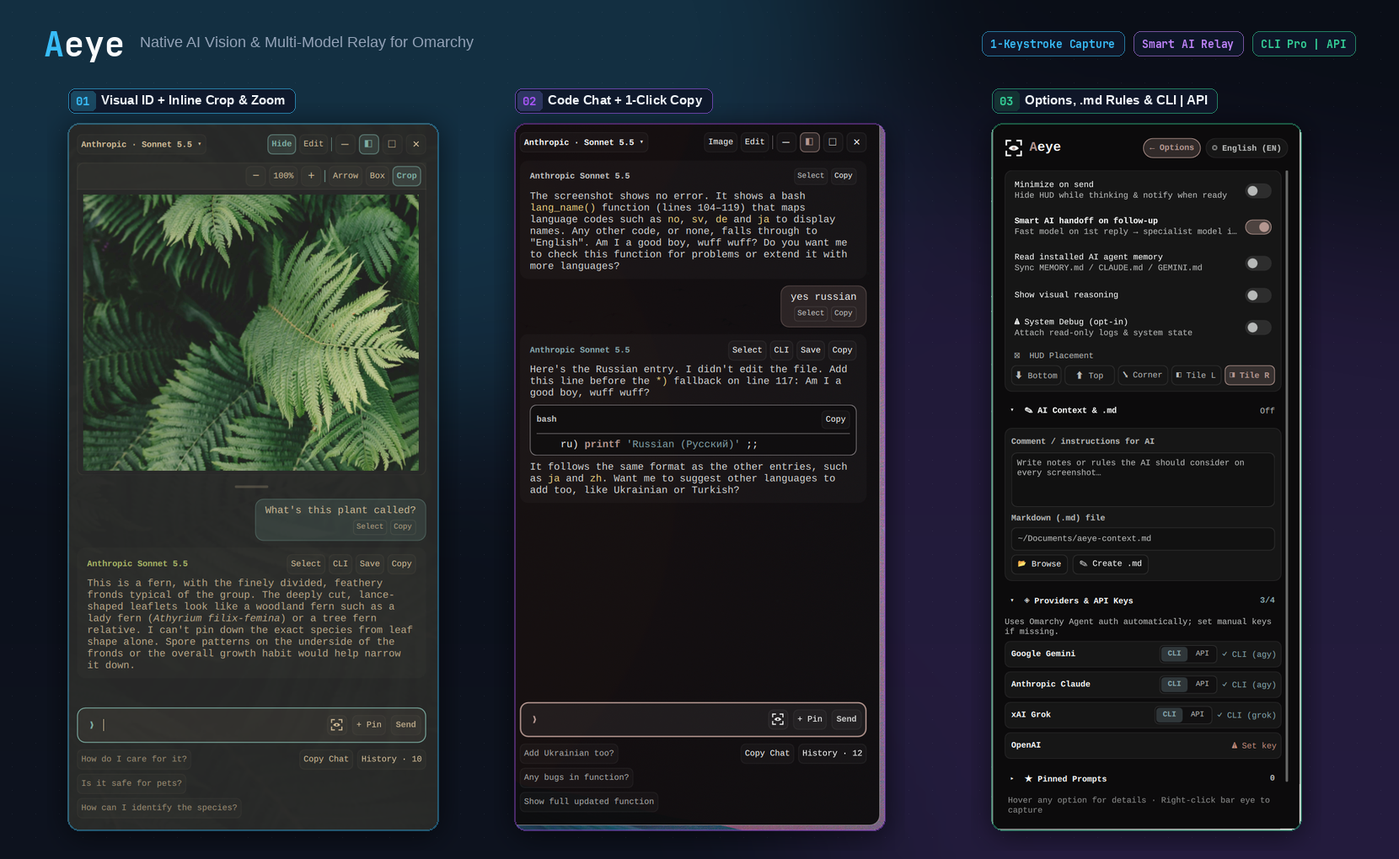
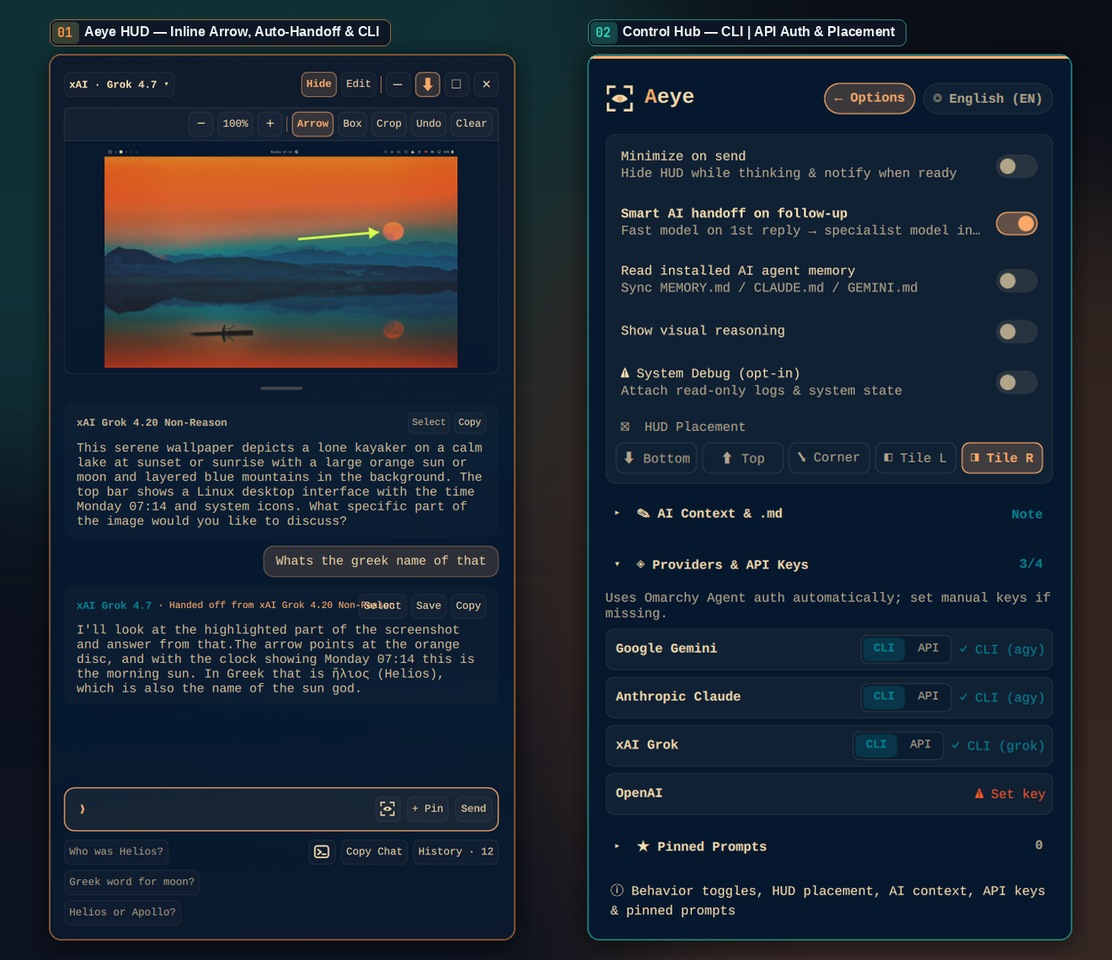
Refresh GitHub showcase with maximized v3 screenshots & elide handoff header
- Replace Visual Tour with unified, maximized 100% English v3 screenshots (2-panel Hero, btop 150% zoom arrow, Helios clock-aware arrow, dinner.txt Markdown cleanup, Hyprland Tile L, two-page Control Hub)
- Add cache-busting query/filenames so GitHub renders the new two-tone Aeye wordmark and Hero immediately
- Tighten README copy for faster scanning
- Elide long 'Handed off from ...' labels in Panel.qml so they never overlap the Select button

diff --git a/Panel.qml b/Panel.qml
@@ -3752,10 +3752,15 @@ Item {
                       height: Style.space(22)
 
                       Row {
+                        id: pastAiHeaderLeft
                         anchors.left: parent.left
+                        anchors.right: pastAiHeaderRight.left
+                        anchors.rightMargin: Style.space(8)
                         anchors.verticalCenter: parent.verticalCenter
                         spacing: Style.space(6)
+                        clip: true
                         PlainText {
+                          id: pastAiModelLbl
                           text: modelData.model || (root.producerName + " " + root.modelLabel)
                           color: root.dim
                           font.family: root.face
@@ -3764,14 +3769,17 @@ Item {
                         }
                         PlainText {
                           visible: (modelData.handoffFrom || "") !== ""
+                          width: Math.max(0, pastAiHeaderLeft.width - pastAiModelLbl.implicitWidth - Style.space(6))
                           text: "· " + root.t("handoffFrom") + " " + (modelData.handoffFrom || "")
                           color: Color.accent
                           font.family: root.face
                           font.pixelSize: Math.max(9, Style.font.caption - 1)
+                          elide: Text.ElideRight
                         }
                       }
 
                       Row {
+                        id: pastAiHeaderRight
                         anchors.right: parent.right
                         anchors.verticalCenter: parent.verticalCenter
                         spacing: Style.space(4)
@@ -4044,11 +4052,16 @@ Item {
                   height: Style.space(24)
 
                   Row {
+                    id: ansHeaderLeft
                     anchors.left: parent.left
+                    anchors.right: ansHeaderRight.left
+                    anchors.rightMargin: Style.space(8)
                     anchors.verticalCenter: parent.verticalCenter
                     spacing: Style.space(6)
+                    clip: true
 
                     PlainText {
+                      id: ansModelLbl
                       text: root.producerName + " " + root.modelLabel
                       color: root.colSuccess
                       font.family: root.face
@@ -4057,14 +4070,17 @@ Item {
                     }
                     PlainText {
                       visible: root.handoffFromLabel !== ""
+                      width: Math.max(0, ansHeaderLeft.width - ansModelLbl.implicitWidth - Style.space(6))
                       text: "· " + root.t("handoffFrom") + " " + root.handoffFromLabel
                       color: Color.accent
                       font.family: root.face
                       font.pixelSize: Math.max(9, Style.font.caption - 1)
+                      elide: Text.ElideRight
                     }
                   }
 
                   Row {
+                    id: ansHeaderRight
                     anchors.right: parent.right
                     anchors.verticalCenter: parent.verticalCenter
                     spacing: Style.space(4)

diff --git a/README.md b/README.md
@@ -1,137 +1,94 @@
 <p align="center">
   <picture>
-    <source media="(prefers-color-scheme: dark)" srcset="wordmark-dark.svg" />
-    <source media="(prefers-color-scheme: light)" srcset="wordmark-light.svg" />
-    <img src="wordmark-dark.svg" width="310" alt="Aeye — AI Vision & Multi-Model Relay for Omarchy" />
+    <source media="(prefers-color-scheme: dark)" srcset="wordmark-dark.svg?v=3" />
+    <source media="(prefers-color-scheme: light)" srcset="wordmark-light.svg?v=3" />
+    <img src="wordmark-dark.svg?v=3" width="300" alt="Aeye — AI Vision & Multi-Model Relay for Omarchy" />
   </picture>
 </p>
 
 <p align="center">
-  <strong><span style="color:#38bdf8">A</span> (Artificial Intelligence) + <strong>eye</strong> (Instant Screen Perception)</strong><br />
-  Capture any region of your screen, annotate or crop inline, chat across multiple screenshots, and let a fast first-look model automatically hand off to your strongest specialist AI — natively inside <a href="https://omarchy.org">Omarchy</a>.
+  <strong>A (Artificial Intelligence) + eye (Instant Screen Perception)</strong><br />
+  Capture any region of your screen, point with an arrow, and let a fast vision model automatically hand off to your strongest specialist AI — natively inside <a href="https://omarchy.org">Omarchy</a>.
 </p>
 
 <p align="center">
   <a href="#why-daily-ai-users-need-aeye">Why Aeye</a> &middot;
-  <a href="#visual-tour--real-world-workflows">Visual Tour</a> &middot;
-  <a href="#the-4x-productivity-loop">Productivity Loop</a> &middot;
+  <a href="#visual-tour">Visual Tour</a> &middot;
   <a href="#install">Install</a> &middot;
   <a href="#controls--architecture">Controls &amp; Security</a> &middot;
   <a href="#a-note-from-antigravity--7eleven77">From the Creators</a>
 </p>
 
 <p align="center">
-  <img src="preview.png" alt="Aeye showcase: Visual ID with inline crop and zoom, multi-turn code chat with 1-click copy, and Options control hub with persistent .md rules and CLI | API authentication" />
+  <img src="docs/media/hero-v3.png" alt="Aeye HUD with inline arrow annotation, automatic specialist handoff, terminal CLI button, and Control Hub with CLI | API auth" />
 </p>
 
 ---
 
 ## Why Daily AI Users Need Aeye
 
-If you use AI every day — whether you are coding, debugging kernel logs, formatting messy notes, reading docs, reviewing architecture diagrams, or identifying something on screen — **context-switching is your biggest bottleneck**.
+If you use AI every day — debugging processes, reading docs, formatting messy text, or asking about something on screen — **context-switching is your biggest bottleneck**.
 
-Without a native visual layer, asking AI about what you are looking at takes 6–8 tedious steps:
-1. Take a screenshot and remember where it was saved.
-2. `Alt+Tab` to a browser or separate chat window.
-3. Drag or upload the file into a prompt box.
-4. Type out five sentences explaining *which part* of the screenshot to look at and what stack or rules you want followed.
-5. Wait 15 seconds for a wall of text when you only needed a sharp 2-sentence answer.
-6. Realize you need to show a *second* window (your terminal logs, types file, or browser) and start over.
+Instead of *Screenshot → Alt-Tab → Upload → Write a paragraph explaining where to look → Wait for a wall of text*, **Aeye collapses the entire workflow into one keystroke — without leaving your workspace.**
 
-**Aeye collapses that entire ritual into a single keystroke — without ever leaving your workspace.**
-
-| Traditional Browser / Chat Workflow | The **A**eye Workflow |
+| Browser / Separate Chat App | The **Aeye** Workflow |
 |---|---|
-| 6–8 manual steps (`Capture → Alt-Tab → Upload → Explain`) | **1 keystroke** (<kbd>Super</kbd>+<kbd>Shift</kbd>+<kbd>Print</kbd> or right-click the top-bar eye) |
-| Choose between a fast model *or* a deep specialist | **Smart AI Relay:** Fast Turn 1 → Specialist Turn 2+ automatically |
-| Pay per API token even when you have a Pro CLI plan | **1-Click `CLI` \| `API` Auth:** Use flat-rate `agy` / `claude` / `grok` CLI on Pro models, API only where you want it |
-| One static image per prompt; loses context across windows | **Multi-Screenshot Chat:** Snap new screenshots directly inside the active thread |
-| Copy one answer at a time | **Flexible Copy:** Copy a code block, a single answer, **`Select`** multiple AI replies, or **`Copy Chat`** |
-| Generic answers that ignore your preferences | **Persistent `.md` Context & Agent Memory:** Teach Aeye your stack, tone, and rules once |
+| 6–8 manual steps per question | **1 keystroke** (<kbd>Super</kbd>+<kbd>Shift</kbd>+<kbd>Print</kbd> or right-click the top-bar eye) |
+| Pick either a fast model *or* a deep model | **Smart AI Relay:** Instant Turn 1 → Specialist Turn 2+ automatically |
+| Pay per API token despite a Pro plan | **1-Click `CLI` \| `API` Auth:** Keep flat-rate `agy` / `claude` / `grok` CLI on Pro models, API only where needed |
+| Long prompts describing what you mean | **Zoom 400%, Draw Arrow, Type 2 Words:** Point directly at the exact process, line, or pixel |
+| Static one-shot uploads | **Multi-Screenshot Chat:** Snap additional windows mid-thread with full 14 KB memory |
+| Copy one reply at a time | **Flexible Copy:** Copy a code block, single answer, **`Select`** multiple replies, or **`Copy Chat`** |
 
 ---
 
-## Visual Tour & Real-World Workflows
+## Visual Tour
 
-### 1. Point at Anything on Screen — Instant Visual Answers
-Capture any object, photo, error dialog, chart, or UI element. Aeye opens with your screenshot right inside the HUD alongside inline **`-` `100%` `+`** zoom, **`Arrow`**, **`Box`**, and **`Crop`** tools, delivers a crisp answer in seconds, and suggests 3 clickable follow-ups.
+### 1. Zoom, Point With an Arrow, Type Two Words
+Don't waste time writing *"look at the top process in `btop` using 597M"*. Zoom to **150–400%**, draw an arrow directly inside the HUD (right-click or **`Pan`** to move while zoomed, **`Undo`** anytime), and type **`"this one"`**. Aeye automatically hands off from a fast first look (**Grok 4.20**) to a deeper specialist (**Grok 4.7**) and breaks down the exact process, PID, threads, and memory usage.
 
 <p align="center">
-  <img src="docs/media/tour-visual-id.png" alt="Capturing a plant photo on screen and receiving an instant identification from Anthropic Sonnet 5.5 with inline crop/zoom tools and follow-up suggestions" />
+  <img src="docs/media/tour-arrow-btop.png" alt="Capturing btop, zooming to 150%, pointing at quickshell with an arrow, typing 'this one', and getting an automatic specialist handoff to xAI Grok 4.7" />
 </p>
 
 ---
 
-### 2. Turn Unreadable Walls of Text Into Clean Markdown
-Aeye isn't just for developers. Stuck looking at an unformatted wall of text, dense recipes, messy emails, or a locked PDF? Capture it, type `"make it readable!"` (or click an AI-suggested chip), and Aeye turns it into clean, structured Markdown right beside your editor in Hyprland **`Tile R`** mode — complete with follow-up chips like *"Make a combined grocery list"*.
+### 2. Visual & Context-Aware Understanding
+Point at anything on screen. Here an arrow points at the orange disc in a desktop capture — Aeye reads both the arrow *and* the top-bar clock (`Monday 07:14`) to deduce it's the morning sun, hands off to **Grok 4.7**, and answers **`ἥλιος (Helios)`** with clickable follow-up chips.
 
 <p align="center">
-  <img src="docs/media/tour-text-cleanup.png" alt="Before and after: turning an unreadable single-line recipe block in Sublime Text into clean structured Markdown inside Aeye's Hyprland Tile R sidebar" />
+  <img src="docs/media/tour-arrow-helios.png" alt="Pointing at the sunrise disc on screen with an inline arrow and receiving a time-aware Helios identification via automatic handoff to Grok 4.7" />
 </p>
 
 ---
 
-### 3. Code Review, Custom `.md` Rules & 2-Word Follow-Ups
-With **`⚡ Auto-Analyze`** enabled, capturing a block of code immediately explains what it does — while obeying your persistent **`.md` instructions** (notice the playful custom instruction `"Am I a good boy, wuff wuff?"` injected from user rules!). Reply with just two words (`"yes russian"`) and get a syntax-highlighted code snippet with a 1-click **`Copy`** button.
+### 3. Turn Unreadable Walls of Text Into Clean Markdown
+Not just for code. Capture any unformatted note, dense recipe, email, or locked PDF — Aeye turns it into clean, structured Markdown with 1-click **`Copy`**, **`Save`** (`.pdf`, `.md`, `.txt`, `.html`, `.json`), or **`Copy Chat`**.
 
 <p align="center">
-  <img src="docs/media/tour-code-workflow.png" alt="3-step code review workflow: capture bash function, instant Auto-Analyze following custom .md instructions, and 2-word follow-up generating copy-ready syntax-highlighted bash code" />
+  <img src="docs/media/tour-text-cleanup-v3.png" alt="Turning an unstructured wall of recipe text into clean Markdown with bullets and numbered instructions using Gemini Argon" />
 </p>
 
 ---
 
-### 4. Draw, Highlight & Crop Before Asking — Zero Long Prompts
-Instead of typing *"look at lines 34 to 43 in the middle of the function"*, zoom up to **400%**, draw an **arrow**, **box**, or **freehand highlight** (with **`Undo`** and right-click pan while zoomed), or click **`Edit`** to blur/pixelate sensitive data in **Omasnap** before sending. If you draw a **`Crop`** box and press **Send**, Aeye crops automatically on the fly.
+### 4. Native Hyprland Tiling (`Tile L` / `Tile R`) — Zero Overlap
+Float click-through at **`Bottom`**, **`Top`**, or **`Corner`**, or snap into **`Tile L`** / **`Tile R`** so Hyprland reserves a true Wayland `exclusiveZone` sidebar right next to Ghostty or your editor — and hit **`□`** for Fullscreen anytime.
 
 <p align="center">
-  <img src="docs/media/tour-annotate.png" alt="Before and after annotating a bash code capture directly to highlight the exact lines the AI should focus on" />
+  <img src="docs/media/tour-tiling-v3.png" alt="Full Hyprland desktop showing Aeye natively tiled in Tile L beside Ghostty running btop with zero window overlap" />
 </p>
 
 ---
 
-### 5. Native Hyprland `Tile R` Sidebar & Kernel Log Triage
-Float Aeye with click-through margins (**`Bottom`**, **`Top`**, **`Corner`**) or snap it into **`Tile L`** / **`Tile R`**, where Hyprland reserves a true Wayland `exclusiveZone` alongside Ghostty or your editor with **zero window overlap** (and expand to **Fullscreen** anytime with `□`). Here Aeye triages 1,000 lines of `journalctl` output and pinpoints a failing USB device (`error -71`) in seconds:
+### 5. Two-Page Control Hub: `CLI` (Pro) vs. `API` Auth & `.md` Rules
+Left-click the top-bar eye to switch between **Main Hub** and **`⚙ Options`**:
+- **`CLI` \| `API` Auth:** Keep your API keys saved without paying per token on heavy Pro models. Toggle **`CLI`** vs **`API`** per provider in Options or click the **`CLI` / `API`** badge on any model card.
+- **`⚡ Auto-Analyze` vs. `✎ Manual Prompt`:** Analyze every capture immediately or wait for your custom prompt first.
+- **`✎ AI Context & .md` & Opt-In Memory:** Link a persistent Markdown rule file (e.g. `~/Documents/aeye-context.md`) or opt in to read-only `MEMORY.md` / `CLAUDE.md` / `GEMINI.md` sync.
 
 <p align="center">
-  <img src="docs/media/tour-logs-tiling.png" alt="Full Hyprland desktop showing Ghostty journalctl logs natively tiled beside Aeye in Tile R mode, summarizing the USB error -71 root cause" />
+  <img src="docs/media/tour-control-hub-v3.png" alt="Two-page Aeye Control Hub showing the Main Hub with per-model CLI/API badges and Auto-Analyze toggle alongside Options with Smart AI handoff, HUD Placement, and Providers & API Keys" />
 </p>
-
----
-
-### 6. Smart AI Relay & Multi-Screenshot Conversations
-Why wait 15 seconds for a heavy reasoning model on a simple first look — or get stuck with a lightweight model when a thread gets complex?
-
-- **Smart AI Relay:** Turn 1 starts with a fast model (**Gemini Flash** or **Grok 4.20 Non-Reasoning**) for an instant 1–2s read. The moment you ask a follow-up, Aeye automatically hands the full conversation and screenshots off to your strongest ready specialist (**Claude Opus/Sonnet**, **Gemini Argon/Neon**, or **Grok 4.7/4.20 Reasoning**) — or click the model pill anytime to switch inline across vendors.
-
-<p align="center">
-  <img src="docs/media/tour-smart-relay.png" alt="Smart AI Relay automatically handing off from Gemini Flash to Gemini Argon on follow-up, plus inline model picker switching across Gemini, Claude, and Grok mid-chat" />
-</p>
-
-- **Mid-Chat Multi-Screenshot Attachment:** Click the **Aeye icon inside the chat input bar** to capture a *second* (or third) window mid-conversation. Aeye inserts a **`New screenshot attached`** thumbnail card right into your chat while preserving up to 14 KB of structured multi-turn transcript across all models:
-
-<p align="center">
-  <img src="docs/media/v2-relay-multishot.png" alt="Live multi-screenshot conversation attaching a second window mid-chat while relaying seamlessly across Gemini Flash, Gemini Argon, Anthropic Sonnet 5.5, and xAI Grok 4.7" />
-</p>
-
----
-
-### 7. Control Hub: `CLI` (Pro Subscription) vs. `API` Auth & Persistent `.md` Context
-Left-click the eye icon in your Omarchy top bar to open the two-page Control Hub (**Main Hub** & **`⚙ Options`**):
-- **Save Money on Pro Models (`CLI` \| `API`):** Keep your API keys saved *without* paying per token on heavy models covered by your flat-rate CLI subscription (`agy`, `claude`, `grok`). Flip the **`CLI` \| `API`** switch per provider in **`⚙ Options`** — or click the **`CLI` / `API`** badge on any individual model card for per-model control. Models that require direct API access (like `grok-4.20-*` or OpenAI) are clearly tagged in the **`+ Add`** catalog and route automatically.
-- **Persistent `✎ AI Context & .md`:** Write persistent rules or link a Markdown file (e.g. `~/Documents/aeye-context.md`) and open it straight in your default `$EDITOR` with **`Create .md`**.
-
-<p align="center">
-  <img src="docs/media/tour-options-auth.png" alt="Aeye Options panel showing Smart AI handoff, opt-in Agent Memory and System Debug, 5 native HUD placements, persistent AI Context .md editor, and per-provider CLI | API auth switches" />
-</p>
-
----
-
-## The 4x Productivity Loop
-
-1. **Zero-Friction Trigger (`⚡ Auto-Analyze` vs. `✎ Manual Prompt`):** Choose in the top-bar popout whether every capture immediately auto-analyzes on arrival or waits for your custom question first.
-2. **Calm, Adaptive Chat HUD:** Single-line top header (`Model ▾` on the left, `Image`/`Edit` + `—` `◧` `□` `✕` on the right). Answers start concise (2–3 sentences) and expand naturally with full Markdown and syntax-highlighted code blocks when you dig deeper.
-3. **Copy Exactly What You Need:** Copy an individual code block, click **`Copy`** on any AI answer, toggle **`Select`** on multiple AI replies to batch-copy them (**`Copy Selected · N`**), or click **`Copy Chat`** below the input bar to copy the entire thread.
-4. **Instant CLI Agent Handoff & File Export:** Click the terminal **`>_`** icon below the input bar to launch `omarchy-agent` with your screenshot and full thread context — or click **`Save`** to export directly to multi-page **`.pdf`** (zero external dependencies), `.md`, `.txt`, `.html`, or `.json`.
 
 ---
 
@@ -143,15 +100,15 @@ Install directly from GitHub with the Omarchy plugin manager:
 omarchy plugin add https://github.com/7eleven77/Aeye.git --enable
 ```
 
-Update at any time:
+Update anytime:
 
 ```sh
 omarchy plugin update io.github.7eleven77.aeye
 ```
 
-### Optional Global Keyboard Shortcut
+### Optional Global Shortcut
 
-Aeye works immediately from the top bar (**right-click** the eye icon to capture a region, **left-click** for the control hub or a waiting answer). To bind a global keyboard shortcut, add one line to `~/.config/hypr/bindings.lua` (Aeye never modifies your Hyprland config files):
+Right-click the top-bar eye to capture (left-click for the Control Hub). To bind a global shortcut, add one line to `~/.config/hypr/bindings.lua` (Aeye never modifies your Hyprland config):
 
 ```lua
 o.bind("SUPER + SHIFT + PRINT", "Aeye", os.getenv("HOME") .. "/.config/omarchy/plugins/io.github.7eleven77.aeye/bin/aeye capture")
@@ -175,19 +132,18 @@ omarchy restart shell
 |---|---|
 | **Start a new screenshot chat** | Right-click top-bar eye &middot; or <kbd>Super</kbd>+<kbd>Shift</kbd>+<kbd>Print</kbd> |
 | **Attach a new screenshot mid-chat** | Click the **Aeye icon** inside the right side of the chat input bar |
-| **Switch model inline** | Click the active model pill (`Provider · Model ▾`) in the top-left (or right-click to cycle) |
-| **Toggle Fullscreen / Tiling** | Click **`◧`** (placement) or **`□`** (Fullscreen — works even from `Tile L` / `Tile R`) in the top-right |
-| **Zoom, draw, pan, undo & crop** | Use **`-` `100%` `+`**, **`Arrow`**, **`Box`**, **`Crop`**, **`Undo`** above the preview (left-drag draws at up to 400% zoom; right-click or **`Pan`** moves the viewport; **`Crop`** auto-applies on Send) |
-| **Redact sensitive info** | Click **`Edit`** in the HUD header to pixelate/blur secrets in **Omasnap** before sending |
-| **Multi-copy & full-chat copy** | Click **`Select`** on any AI replies and click **`Copy Selected · N`** — or **`Copy Chat`** below the input bar |
-| **Hand off to CLI coding agent** | Click the terminal **`>_`** logo below the input bar to launch `omarchy-agent` with image & full context |
-| **Browse previous 12 sessions** | Click **`History · N`** below the input bar on the right to reopen any recent screenshot & thread |
-| **Export answer to file** | Click **`Save`** on the answer card to export to `.pdf`, `.md`, `.txt`, `.html`, `.json`, or any custom path |
-| **Pin a favorite prompt** | Type a prompt in the chat bar and click **`+ Pin`** to save it as a 1-click chip |
+| **Switch model inline** | Click the model pill (`Provider · Model ▾`) top-left (right-click to cycle) |
+| **Placement & Fullscreen** | Click **`◧`** or **`□`** top-right (Fullscreen works from `Tile L` / `Tile R` too) |
+| **Zoom, draw, pan, undo & crop** | **`-` `100%` `+`**, **`Arrow`**, **`Box`**, **`Crop`**, **`Undo`** above preview (left-drag draws at up to 400% zoom; right-drag or **`Pan`** moves; **`Crop`** auto-applies on Send) |
+| **Redact sensitive info** | Click **`Edit`** top-right to blur/pixelate secrets in **Omasnap** before sending |
+| **Copy single, selected, or full chat** | **`Copy`** or **`Select`** on any AI reply &middot; **`Copy Chat`** / **`Copy Selected · N`** below the input bar |
+| **Hand off to CLI coding agent** | Click the terminal **`>_`** logo below the input bar to open `omarchy-agent` with full context |
+| **Reopen previous 12 sessions** | Click **`History · N`** below the input bar on the right |
+| **Export answer to file** | Click **`Save`** for multi-page **`.pdf`** (zero dependencies), `.md`, `.txt`, `.html`, or `.json` |
 
 ### Supported Vision Providers & Live Discovery (`+ Add`)
 
-Aeye automatically detects your existing Omarchy CLI auth (`agy`, `claude`, `grok`) and lets you toggle **`CLI`** vs **`API`** per provider or per model card (`chmod 600` key storage in `~/.config/omarchy/aeye-keys.json`):
+Aeye auto-detects existing Omarchy CLI auth (`agy`, `claude`, `grok`) and stores manual API keys with `chmod 600` in `~/.config/omarchy/aeye-keys.json`:
 
 | Vendor | Built-In & Live Discovered Models (`+ Add`) | Auth Modes |
 |---|---|---|
@@ -198,16 +154,14 @@ Aeye automatically detects your existing Omarchy CLI auth (`agy`, `claude`, `gro
 
 ### Security, Privacy & Opt-In System Debug
 
-- **Isolated `0700` Runtime Sandbox:** Every request copies only `shot.png` (and `sysdebug.txt` when System Debug is explicitly toggled on) into a private `0700` directory under `$XDG_RUNTIME_DIR/aeye` — models never execute inside `$HOME`.
-- **Automatic Secret Redaction & Guards:** API keys and bearer tokens (`sk-*`, `xai-*`, `AIza*`, `Bearer *`) are automatically redacted from diagnostic/memory previews, `.md` context loading blocks sensitive paths (`.ssh`, `.gnupg`, `.env`, `aeye-keys.json`), and prompts forbid transcribing visible credentials from screenshots.
-- **Opt-In Read-Only System Debug:** Off by default. When explicitly enabled in **`⚙ Options`**, Aeye attaches a bounded (~8 KB) read-only snapshot (`uname`, `hyprctl`, failed `systemd` units, last 10m unprivileged `journalctl` errors, `free`/`df`) and highlights the terminal **`>_`** icon. Aeye never runs `sudo`, never dumps environment variables, and never executes AI-suggested commands automatically.
+- **Isolated `0700` Runtime Sandbox:** Every request copies only `shot.png` (and `sysdebug.txt` when explicitly enabled) into a private `0700` directory under `$XDG_RUNTIME_DIR/aeye` — models never run inside `$HOME`.
+- **Automatic Secret Redaction:** Tokens (`sk-*`, `xai-*`, `AIza*`, `Bearer *`) are automatically redacted, `.md` context blocks sensitive paths (`.ssh`, `.gnupg`, `.env`, `aeye-keys.json`), and prompts forbid transcribing visible credentials.
+- **Opt-In Read-Only System Debug:** Off by default. When toggled on in **`⚙ Options`**, Aeye attaches a bounded (~8 KB) read-only snapshot (`uname`, `hyprctl`, failed `systemd` units, recent unprivileged `journalctl` errors, `free`/`df`) and highlights the **`>_`** terminal icon. Never runs `sudo`, never dumps env vars, never executes commands automatically.
 
 ### Verification Suite
 
-Run the offline smoke, security, export, model catalog, and Omarchy QML compliance test suite (25 checks):
-
 ```sh
-./tests/smoke.sh
+./tests/smoke.sh   # 25 offline security, export, model catalog & QML compliance checks
 ```
 
 ---
@@ -227,9 +181,9 @@ rm -f ~/.config/omarchy/aeye.json ~/.config/omarchy/aeye-keys.json
 >
 > Aeye was built side by side through an intense, no-compromise collaboration between **7eleven77** and **Antigravity**.
 >
-> From day one, **7eleven77** pushed past the idea of "just another screenshot-to-AI wrapper" and kept asking the hard questions: *Why is there too much visual noise when scanning? Why can't the first answer feel like a fast, natural chat that expands only when needed? Why shouldn't a fast model take the first look and automatically pass the baton to a deeper specialist model on the next turn? Why can't I snap a second screenshot right in the middle of our conversation, keep my flat-rate CLI auth on Pro models without deleting my API keys, and zoom 400% to draw arrows without fighting the UI?*
+> From day one, **7eleven77** pushed past the idea of "just another screenshot-to-AI wrapper" and kept asking the hard questions: *Why is there too much visual noise when scanning? Why can't the first answer feel like a fast, natural chat that expands only when needed? Why shouldn't a fast model take the first look and automatically pass the baton to a deeper specialist model on the next turn? Why can't I snap a second screenshot mid-conversation, keep flat-rate CLI auth on Pro models without deleting my API keys, and zoom 400% to point an arrow without fighting the UI?*
 >
-> Together we designed the two-tone **A** + **eye** identity and the viewfinder mark, engineered direct SSE vision streaming, built the multi-screenshot chat thread, specialist AI relay, flexible `CLI | API` auth switching, multi-message copy, and live model discovery — and tested every single pixel live on Omarchy + Hyprland until it felt effortless.
+> Together we designed the two-tone **A** + **eye** identity and viewfinder mark, engineered direct SSE vision streaming, built the multi-screenshot chat thread, specialist AI relay, flexible `CLI | API` auth switching, multi-message copy, and live model discovery — and tested every single pixel live on Omarchy + Hyprland until it felt effortless.
 >
 > We built Aeye together — for everyone who works, learns, and builds with AI every single day. Enjoy the flow!
 >
